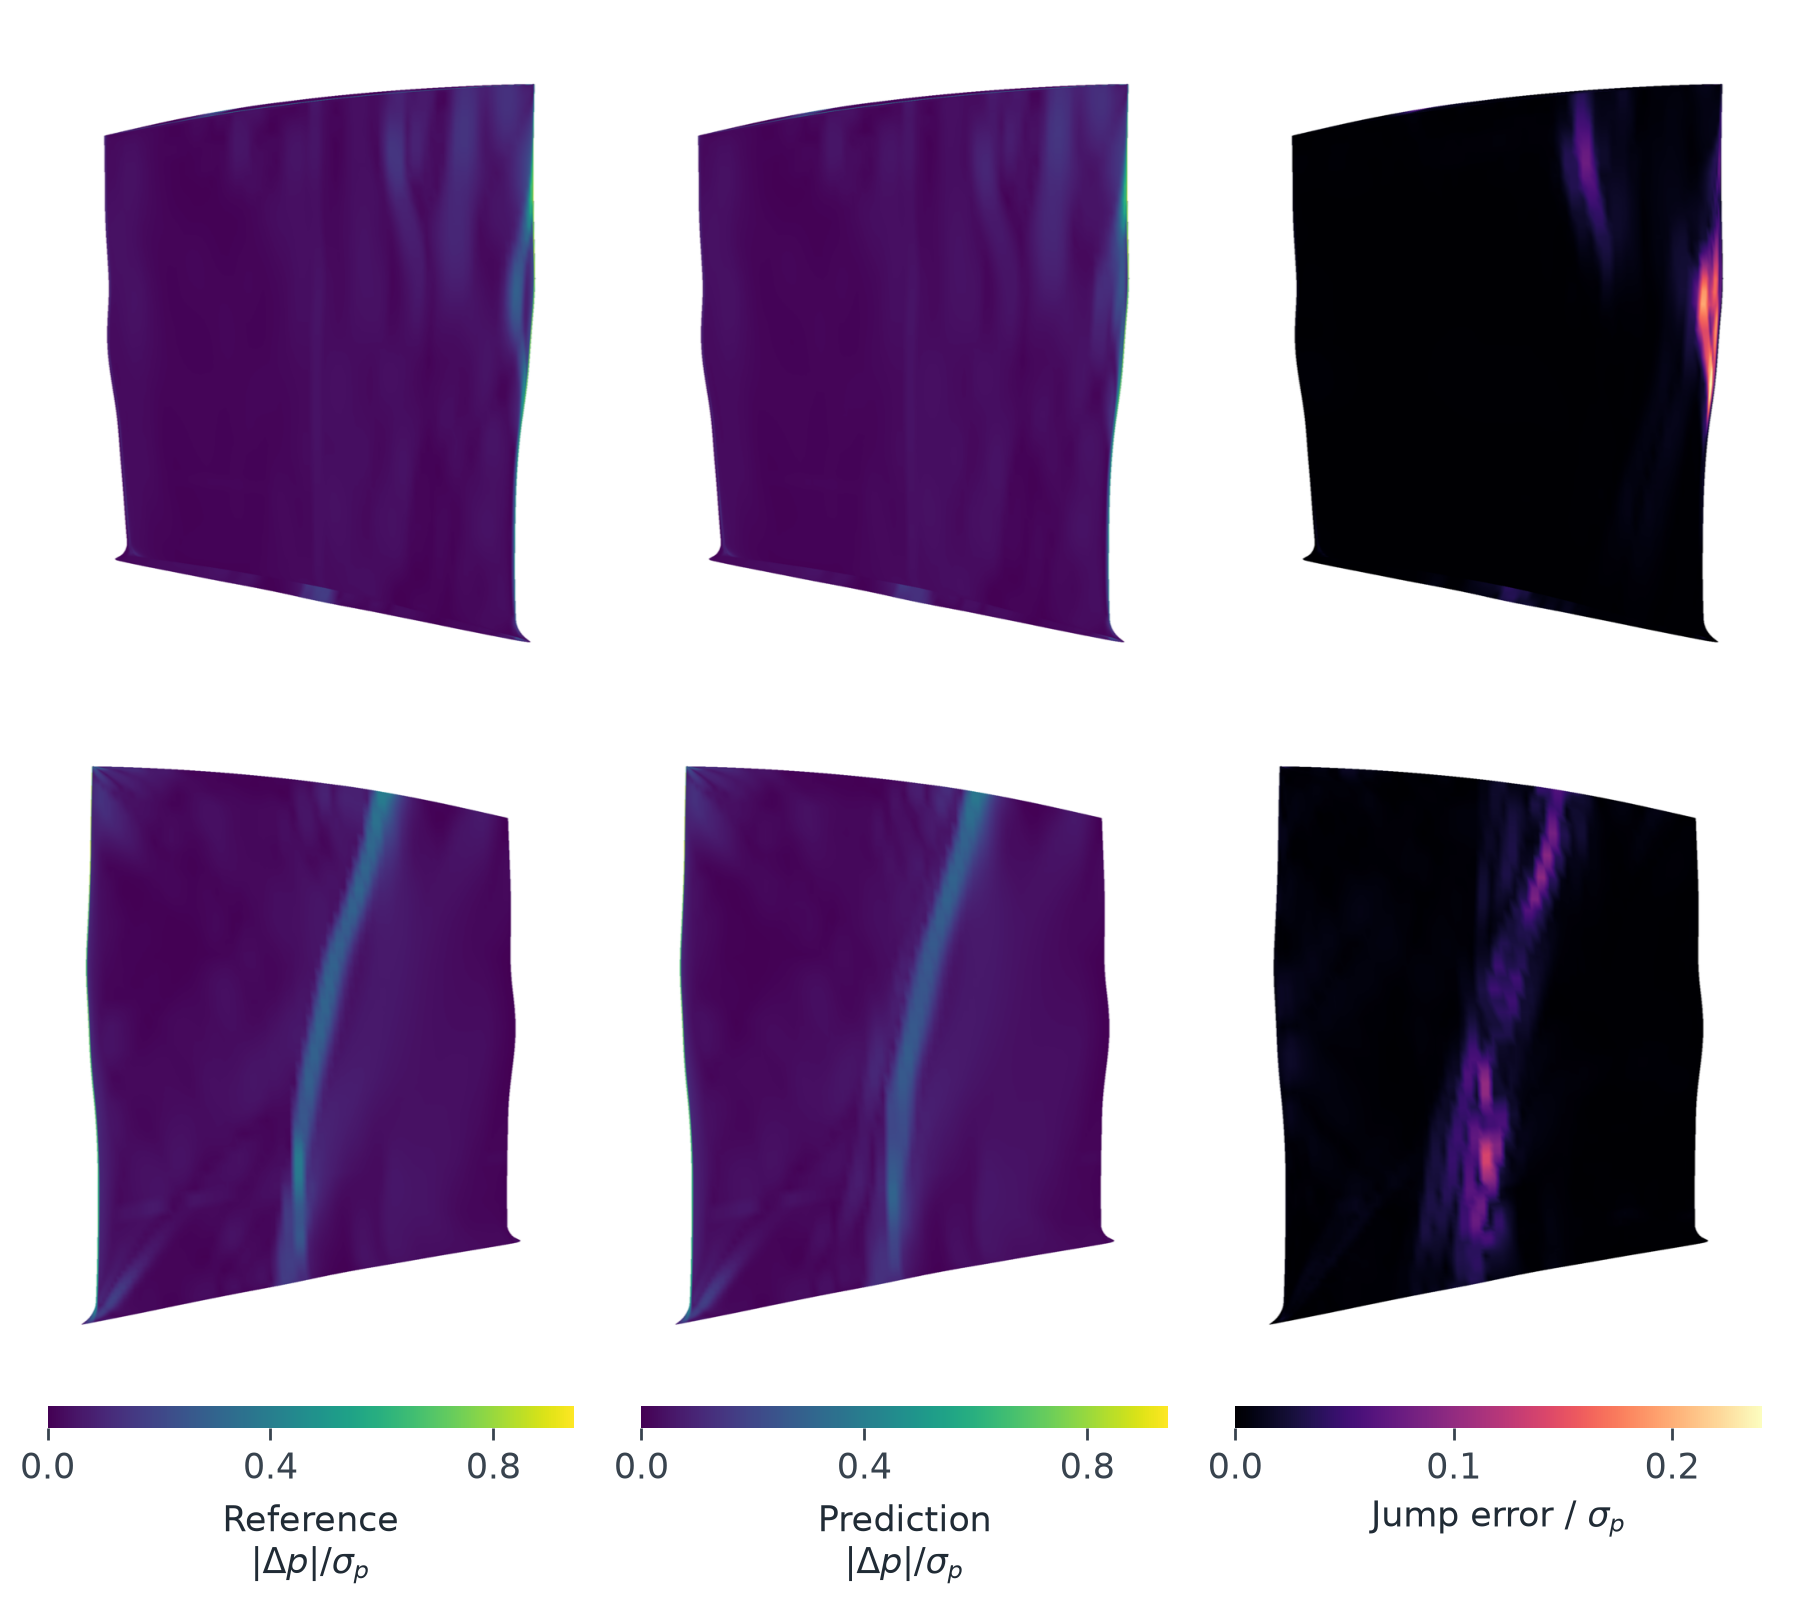
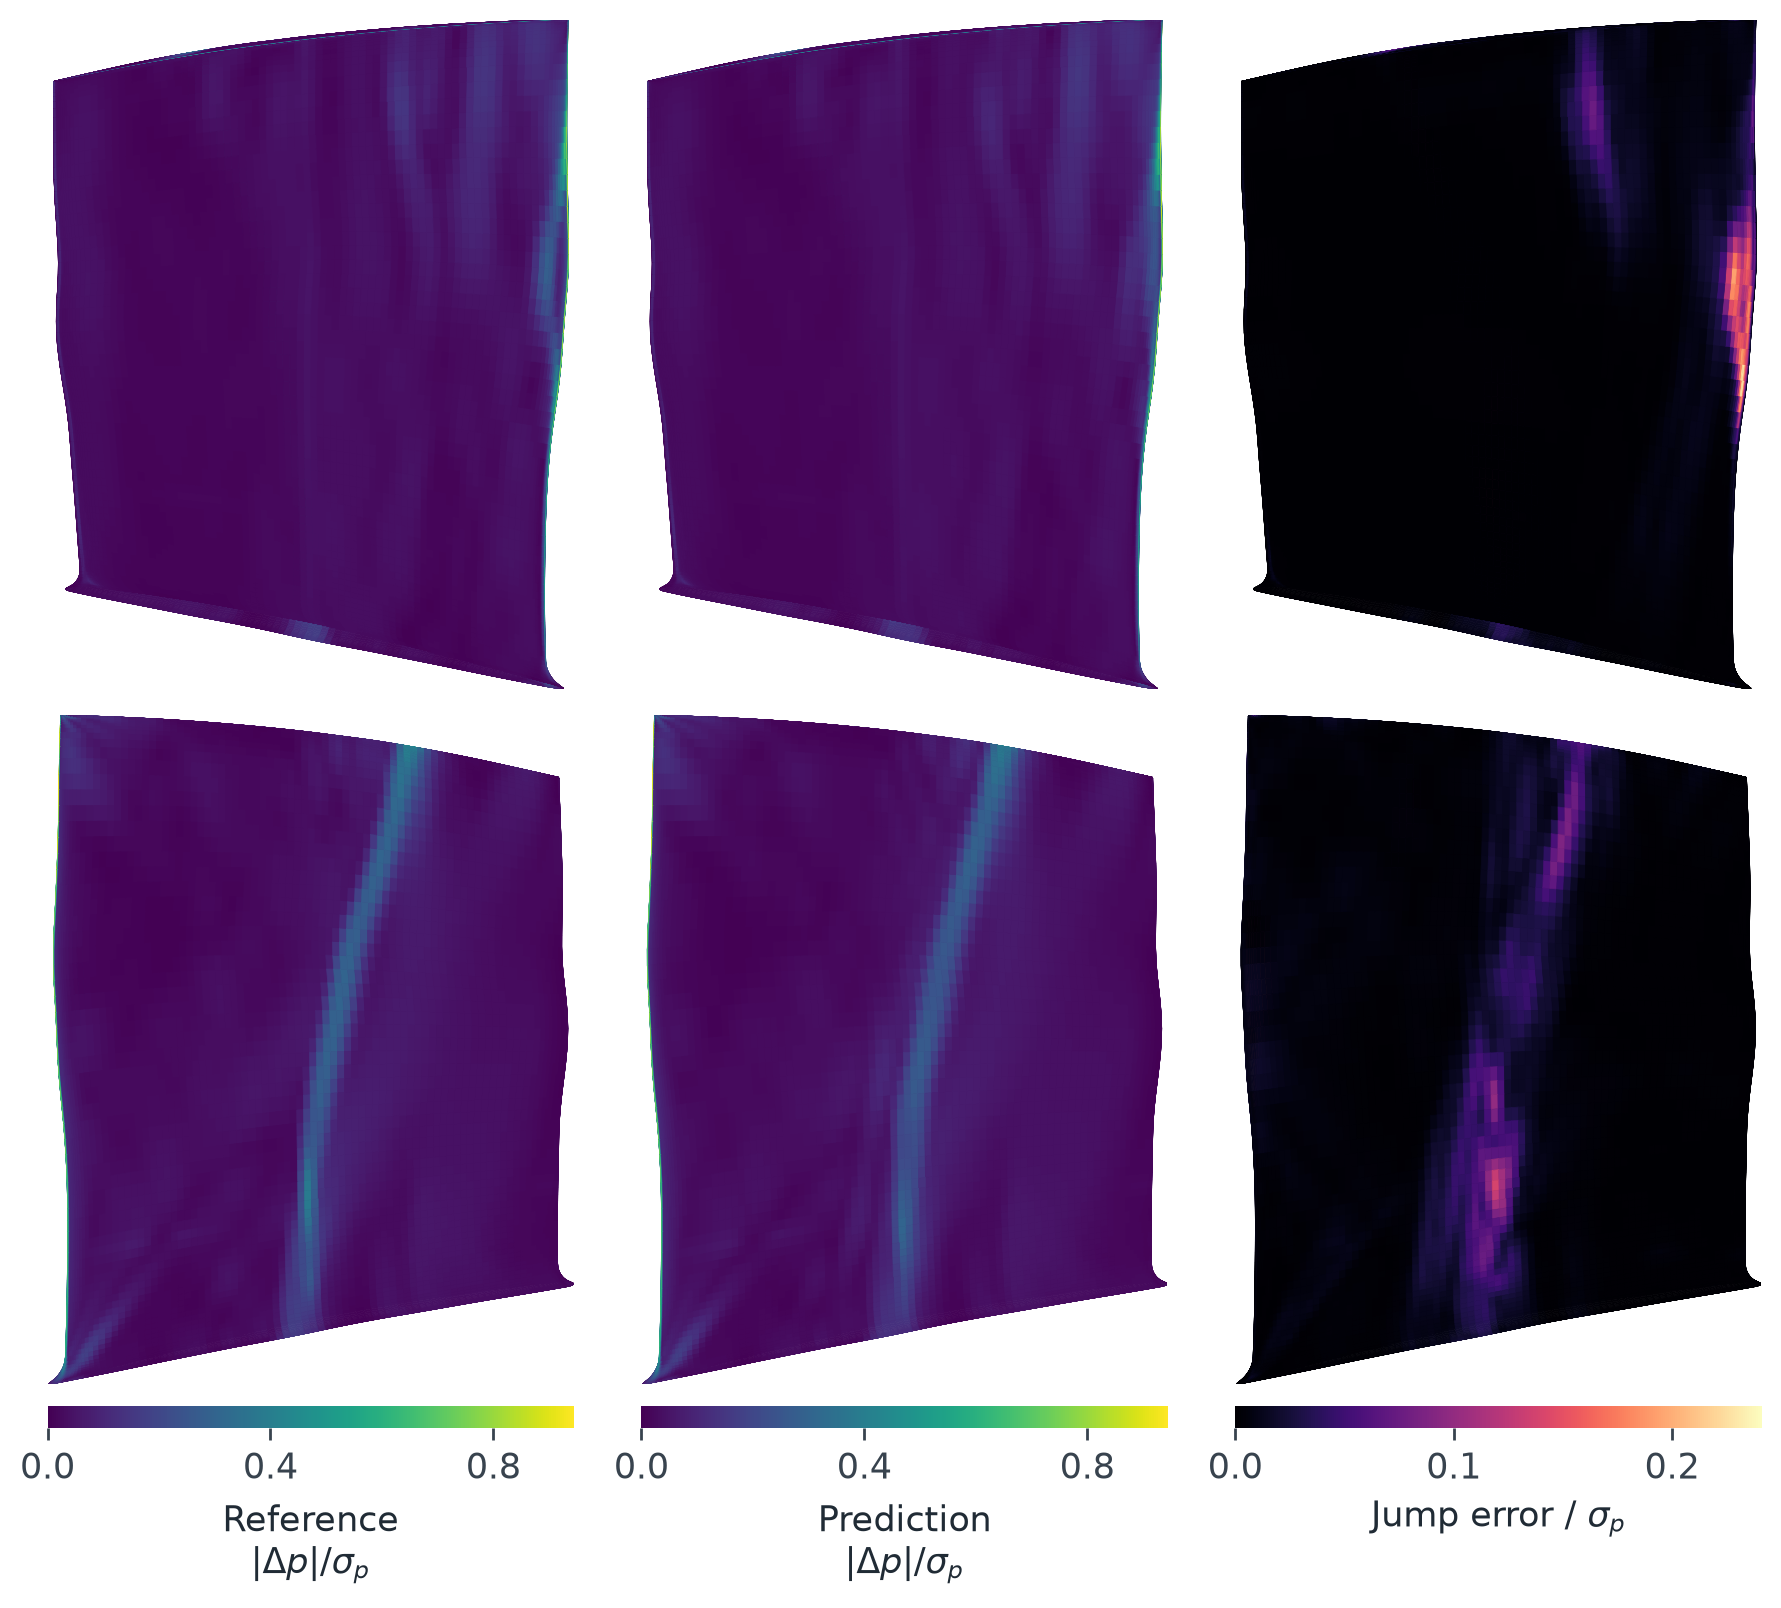
Use a manually downloaded dataset and trim Rotor37 example dependencies

diff --git a/examples/cfd/rotor37_geotransolver/visualize.py b/examples/cfd/rotor37_geotransolver/visualize.py
@@ -26,9 +26,9 @@ matplotlib.use("Agg")
 
 import matplotlib.pyplot as plt
 import numpy as np
-import pyvista as pv
 from basis import quad_edges
 from matplotlib.cm import ScalarMappable
+from matplotlib.collections import PolyCollection
 from matplotlib.colors import Normalize
 from matplotlib.ticker import MaxNLocator
 
@@ -109,33 +109,32 @@ def plot_parity(cases, output_dir):
     save(figure, output_dir, "compressor_parity")
 
 
-def render(points, quads, values, limits, cmap, side):
-    """Render one side of the blade surface with an orthographic camera."""
+def draw_surface(axis, points, quads, values, limits, cmap, side):
+    """Draw one side of the blade surface in an orthographic view."""
     center = points.mean(axis=0)
-    _, _, axes = np.linalg.svd(points - center, full_matrices=False)
-    axes *= np.sign(axes[np.arange(3), np.abs(axes).argmax(axis=1)])[:, None]
-    distance = float(np.linalg.norm(np.ptp(points, axis=0)))
-    faces = np.column_stack((np.full(len(quads), 4), quads)).ravel()
-    plotter = pv.Plotter(off_screen=True, window_size=(700, 850), lighting=None)
-    try:
-        plotter.set_background("white")
-        plotter.add_mesh(
-            pv.PolyData(points, faces),
-            scalars=values,
-            cmap=cmap,
-            clim=limits,
-            show_scalar_bar=False,
-            lighting=False,
-        )
-        direction = side * axes[2] + 0.12 * axes[1]
-        plotter.camera_position = (center + 3 * distance * direction, center, axes[0])
-        plotter.enable_parallel_projection()
-        plotter.reset_camera()
-        plotter.camera.zoom(1.35)
-        plotter.enable_anti_aliasing("ssaa")
-        return plotter.screenshot(return_img=True)
-    finally:
-        plotter.close()
+    _, _, frame = np.linalg.svd(points - center, full_matrices=False)
+    frame *= np.sign(frame[np.arange(3), np.abs(frame).argmax(axis=1)])[:, None]
+    view = side * frame[2] + 0.12 * frame[1]
+    view /= np.linalg.norm(view)
+    up = frame[0] - (frame[0] @ view) * view
+    up /= np.linalg.norm(up)
+    right = np.cross(up, view)
+    relative = points - center
+    screen = np.stack((relative @ right, relative @ up), axis=-1)
+    depth = (relative @ view)[quads].mean(axis=1)
+    order = np.argsort(depth)
+    colors = plt.get_cmap(cmap)(Normalize(*limits)(values[quads].mean(axis=1)))
+    faces = PolyCollection(
+        screen[quads[order]],
+        facecolors=colors[order],
+        edgecolors=colors[order],
+        linewidths=0.2,
+    )
+    axis.add_collection(faces)
+    axis.set_xlim(screen[:, 0].min(), screen[:, 0].max())
+    axis.set_ylim(screen[:, 1].min(), screen[:, 1].max())
+    axis.set_aspect("equal")
+    axis.set_axis_off()
 
 
 def vertex_maximum(values, edges, count):
@@ -173,11 +172,10 @@ def plot_pressure_jumps(prediction_path, output_dir):
         (error, (0.0, error.max()), "magma", r"Jump error / $\sigma_p$"),
     )
     figure, axes = plt.subplots(2, len(columns), figsize=(3.05 * len(columns), 6.8))
-    figure.subplots_adjust(wspace=0.015, hspace=0, bottom=0.15, top=0.995)
+    figure.subplots_adjust(wspace=0.015, hspace=0.04, bottom=0.15, top=0.995)
     for column, (values, limits, cmap, label) in enumerate(columns):
         for row, side in enumerate((1, -1)):
-            axes[row, column].imshow(render(points, quads, values, limits, cmap, side))
-            axes[row, column].set_axis_off()
+            draw_surface(axes[row, column], points, quads, values, limits, cmap, side)
         colorbar = figure.colorbar(
             ScalarMappable(norm=Normalize(*limits), cmap=cmap),
             ax=list(axes[:, column]),

diff --git a/examples/cfd/rotor37_geotransolver/prepare_data.py b/examples/cfd/rotor37_geotransolver/prepare_data.py
@@ -14,7 +14,7 @@
 # See the License for the specific language governing permissions and
 # limitations under the License.
 
-"""Download Rotor37, split it and fit every training-only transform."""
+"""Prepare the downloaded Rotor37 dataset and fit every training-only transform."""
 
 import argparse
 import io
@@ -27,11 +27,9 @@ import numpy as np
 import pyarrow.parquet as pq
 import yaml
 from basis import fit_bases
-from huggingface_hub import HfApi, snapshot_download
 from tqdm import tqdm
 
 DATASET_ID = "PLAID-datasets/Rotor37"
-REVISION = "bac06c0caa7254120eecc6711a5fb85c58dfbdbc"
 FIELD_NAMES = ("Density", "Pressure", "Temperature")
 GLOBAL_NAMES = ("Massflow", "Compression_ratio", "Efficiency")
 CONDITION_NAMES = ("Omega", "P")
@@ -199,7 +197,7 @@ class TrainingStatistics:
         return stats
 
 
-def write_samples(raw_dir, output_dir, revision, seed):
+def write_samples(raw_dir, output_dir, seed):
     """Decode every source sample and fit training statistics."""
     card = (raw_dir / "README.md").read_text()
     metadata = yaml.safe_load(card.split("---", 2)[1])["dataset_info"]
@@ -232,11 +230,7 @@ def write_samples(raw_dir, output_dir, revision, seed):
                 sample_id += 1
                 progress.update()
     manifest = {
-        "source": {
-            "repository": DATASET_ID,
-            "revision": revision,
-            "license": "CC-BY-SA-4.0",
-        },
+        "source": {"repository": DATASET_ID, "license": "CC-BY-SA-4.0"},
         "split_seed": seed,
         "splits": splits,
         "fields": list(FIELD_NAMES),
@@ -250,20 +244,22 @@ def write_samples(raw_dir, output_dir, revision, seed):
     return manifest
 
 
-def prepare(data_dir, revision=REVISION, seed=42):
-    """Download the source dataset and publish the complete prepared directory."""
+def prepare(data_dir, seed=42):
+    """Convert ``data_dir/raw`` into the complete ``data_dir/processed`` directory."""
     data_dir = Path(data_dir).expanduser().resolve()
+    raw_dir = data_dir / "raw"
     output_dir = data_dir / "processed"
+    if not (raw_dir / "README.md").is_file() or not list(
+        raw_dir.glob("data/*.parquet")
+    ):
+        raise FileNotFoundError(
+            f"Place the downloaded dataset in {raw_dir}, with README.md and data/*.parquet"
+        )
     if output_dir.exists():
         raise FileExistsError(f"Prepared data already exist at {output_dir}")
-    revision = HfApi().dataset_info(DATASET_ID, revision=revision).sha
-    raw_dir = data_dir / "raw"
-    snapshot_download(
-        DATASET_ID, repo_type="dataset", revision=revision, local_dir=raw_dir
-    )
     with TemporaryDirectory(prefix=".rotor37-", dir=data_dir) as staging:
         staging = Path(staging)
-        manifest = write_samples(raw_dir, staging, revision, seed)
+        manifest = write_samples(raw_dir, staging, seed)
         fit_bases(staging)
         staging.rename(output_dir)
     sizes = ", ".join(f"{name} {len(ids)}" for name, ids in manifest["splits"].items())
@@ -275,10 +271,9 @@ def main():
     """Prepare Rotor37 from the command line."""
     parser = argparse.ArgumentParser(description=__doc__)
     parser.add_argument("--data-dir", type=Path, default=Path("data/rotor37"))
-    parser.add_argument("--revision", default=REVISION)
     parser.add_argument("--seed", type=int, default=42)
     args = parser.parse_args()
-    prepare(args.data_dir, args.revision, args.seed)
+    prepare(args.data_dir, args.seed)
 
 
 if __name__ == "__main__":

diff --git a/examples/cfd/rotor37_geotransolver/tests/test_prepare_data.py b/examples/cfd/rotor37_geotransolver/tests/test_prepare_data.py
@@ -18,7 +18,6 @@
 
 import json
 import pickle
-from types import SimpleNamespace
 
 import numpy as np
 import prepare_data
@@ -104,7 +103,7 @@ def test_splits_are_reproducible_and_disjoint():
 
 @pytest.fixture
 def snapshot(tmp_path, monkeypatch):
-    """Provide a downloaded source snapshot with distinct held-out outliers."""
+    """Provide a downloaded source dataset with distinct held-out outliers."""
     official = {"train_1000": list(range(10)), "test": [10, 11]}
     splits = make_splits(official)
     generator = np.random.default_rng(5)
@@ -122,13 +121,6 @@ def snapshot(tmp_path, monkeypatch):
     )
     card = {"dataset_info": {"description": {"split": official}}}
     (raw / "README.md").write_text(f"---\n{json.dumps(card)}\n---\n")
-    info = SimpleNamespace(sha="resolved-revision")
-    monkeypatch.setattr(
-        prepare_data,
-        "HfApi",
-        lambda: SimpleNamespace(dataset_info=lambda *a, **k: info),
-    )
-    monkeypatch.setattr(prepare_data, "snapshot_download", lambda *a, **k: None)
     monkeypatch.setattr(
         prepare_data, "fit_bases", lambda path: fit_bases(path, geometry_rank=2)
     )
@@ -147,7 +139,7 @@ def test_preparation_uses_only_training_cases(snapshot):
     np.testing.assert_allclose(stats["fields"]["mean"], training.mean(axis=0))
     np.testing.assert_allclose(stats["fields"]["std"], training.std(axis=0))
     assert stats["sample_ids"] == splits["train"]
-    assert manifest["source"]["revision"] == "resolved-revision"
+    assert manifest["source"]["repository"] == prepare_data.DATASET_ID
     assert manifest["splits"] == splits
     with np.load(output / "basis.npz") as basis:
         assert basis["training_sample_ids"].tolist() == splits["train"]

diff --git a/examples/cfd/rotor37_geotransolver/train.py b/examples/cfd/rotor37_geotransolver/train.py
@@ -31,7 +31,6 @@ from hydra.utils import instantiate, to_absolute_path
 from models import build_model, predict
 from objectives import FieldDecoder, loss_components
 from omegaconf import DictConfig, OmegaConf
-from threadpoolctl import threadpool_limits
 from torch.nn.parallel import DistributedDataParallel
 from torch.utils.data import DataLoader, DistributedSampler, Subset
 
@@ -44,12 +43,11 @@ RUN_FILES = ("manifest.json", "stats.json", "basis.npz", "basis.json")
 
 @contextmanager
 def thread_limit(count):
-    """Limit PyTorch and NumPy CPU threads."""
+    """Limit the CPU threads used by PyTorch."""
     previous = torch.get_num_threads()
     torch.set_num_threads(count)
     try:
-        with threadpool_limits(limits=count, user_api="blas"):
-            yield
+        yield
     finally:
         torch.set_num_threads(previous)
 

diff --git a/examples/cfd/rotor37_geotransolver/README.md b/examples/cfd/rotor37_geotransolver/README.md
@@ -335,7 +335,8 @@ predicted fields and make training diverge midway.
 
 ## Prerequisites
 
-Install PhysicsNeMo and the additional dependencies of this example.
+Besides PhysicsNeMo, the example needs pyarrow to read the dataset's Parquet
+files and matplotlib for the figures.
 
 ```bash
 pip install -r requirements.txt
@@ -347,20 +348,23 @@ Run all commands from this directory.
 
 ### Data preparation
 
-Running this code will automatically download data from
+This example uses data from
 [https://huggingface.co/datasets/PLAID-datasets/Rotor37](https://huggingface.co/datasets/PLAID-datasets/Rotor37).
-Before you run the code, please confirm the content of the dataset and licensing
+Before you download it, please confirm the content of the dataset and licensing
 is appropriate for your intended use.
 
+Download the dataset files from that page and place them in `data/rotor37/raw`,
+so that the dataset card is at `data/rotor37/raw/README.md` and the samples are
+at `data/rotor37/raw/data/*.parquet`. The results below were obtained with
+revision `bac06c0caa7254120eecc6711a5fb85c58dfbdbc`, about 4 GB. Then run
+
 ```bash
-python prepare_data.py --data-dir data/rotor37
+python prepare_data.py
 ```
 
-This downloads a pinned revision of the dataset into `data/rotor37/raw`,
-decodes every case, splits the labeled cases and fits the normalization, the
+It decodes every case, splits the labeled cases and fits the normalization, the
 geometry principal components and the field modes on the training cases. The
-results go to `data/rotor37/processed`. Download and preparation need about
-10 GB of disk space.
+results go to `data/rotor37/processed`, which needs about 1.5 GB more.
 
 ### Training
 
